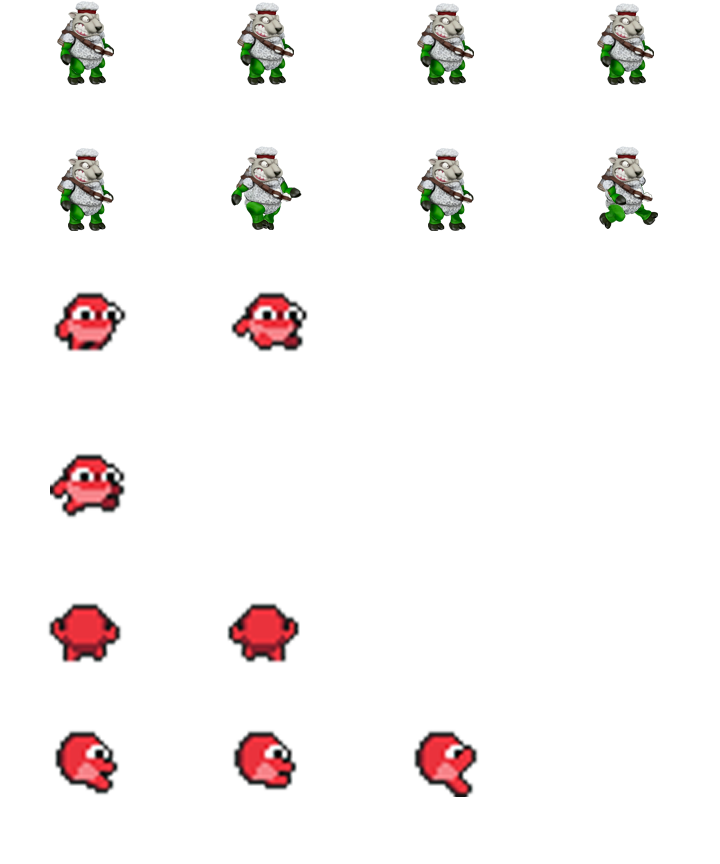
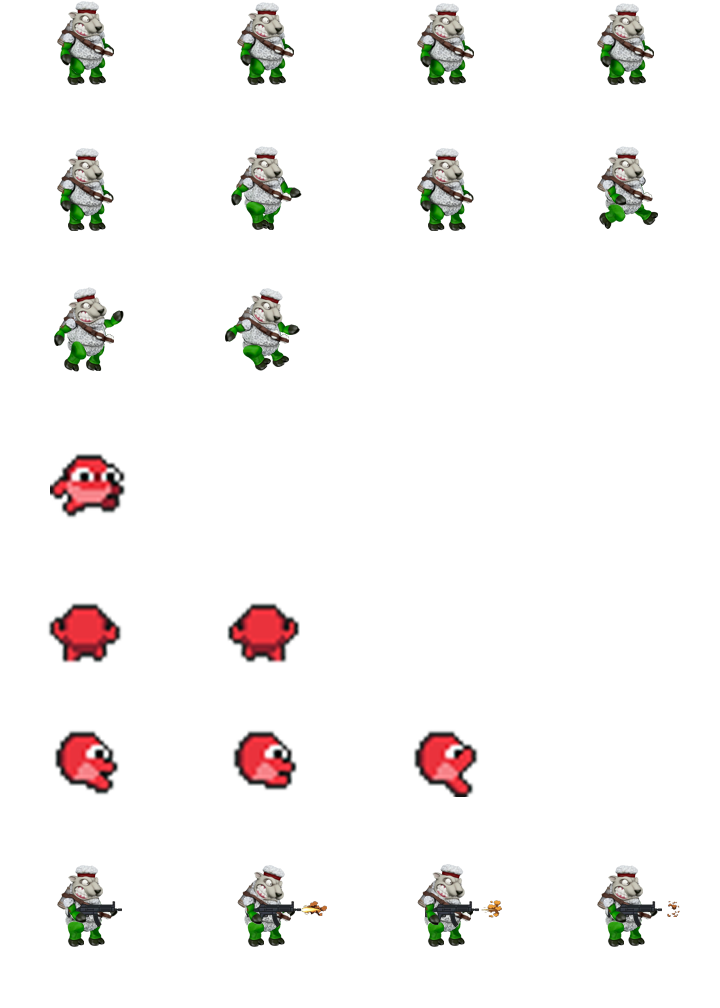
Added Wolly shoot

diff --git a/entities/Player.js b/entities/Player.js
@@ -56,7 +56,6 @@ export class Player {
 		});
 
 		onKeyDown("right", () => {
-			console.log("this.gameObj.curAnim() : ", this.gameObj.curAnim());
 			if (this.gameObj.curAnim() !== "run") {
 				this.gameObj.play("run");
 				this.gameObj.flipX = false;
@@ -66,23 +65,29 @@ export class Player {
 		});
 
 		onKeyDown("space", () => {
-			if (this.gameObj.isGrounded() && !this.isRespawning) {
-				this.hasJumpedOnce = true;
-				this.gameObj.jump(this.jumpForce);
-				play("jump");
+			if (!this.gameObj.isGrounded() && this.hasJumpedOnce) {
+				return;
 			}
-			if (
-				!this.gameObj.isGrounded() &&
-				time() - this.timeSinceLastGrounded < this.coyoteLapse &&
-				!this.hasJumpedOnce
-			) {
-				this.gameObj.jump(this.jumpForce);
-				play("jump");
+			if (time() - this.timeSinceLastGrounded > time.coyoteLapse) {
+				return;
+			}
+			this.gameObj.jump(this.jumpForce);
+			if (this.gameObj.curAnim() !== "jump") play("jump");
+			this.hasJumpedOnce = true;
+		});
+
+		onKeyDown("z", () => {
+			if (this.gameObj.isGrounded() && this.gameObj.curAnim() !== "shoot") {
+				this.gameObj.play("shoot");
 			}
 		});
 
 		onKeyRelease(() => {
-			if (isKeyReleased("right") || isKeyReleased("left")) {
+			if (
+				isKeyReleased("right") ||
+				isKeyReleased("left") ||
+				isKeyReleased("z")
+			) {
 				this.gameObj.play("idle");
 				this.isMoving = false;
 			}
@@ -112,7 +117,7 @@ export class Player {
 
 			if (
 				!this.gameObj.isGrounded() &&
-				this.heightDelta > 0 &&
+				this.heightDelta > -100 &&
 				this.gameObj.curAnim() !== "jump-up"
 			) {
 				this.gameObj.play("jump-up");
@@ -120,7 +125,7 @@ export class Player {
 
 			if (
 				!this.gameObj.isGrounded() &&
-				this.heightDelta < 0 &&
+				this.heightDelta < -100 &&
 				this.gameObj.curAnim() !== "jump-down"
 			) {
 				this.gameObj.play("jump-down");

diff --git a/utils/loader.js b/utils/loader.js
@@ -22,7 +22,7 @@ export const load = {
 		);
 		loadSprite("wolly", "./assets/barnyard/Wolly_720.png", {
 			sliceX: 4,
-			sliceY: 6,
+			sliceY: 7,
 			anims: {
 				idle: {
 					from: 0,
@@ -36,6 +36,11 @@ export const load = {
 				},
 				"jump-up": 8,
 				"jump-down": 9,
+				shoot: {
+					from: 24,
+					to: 27,
+					loop: true,
+				},
 			},
 		});
 		loadSprite("apple", "./assets/barnyard/Apple.png", {
